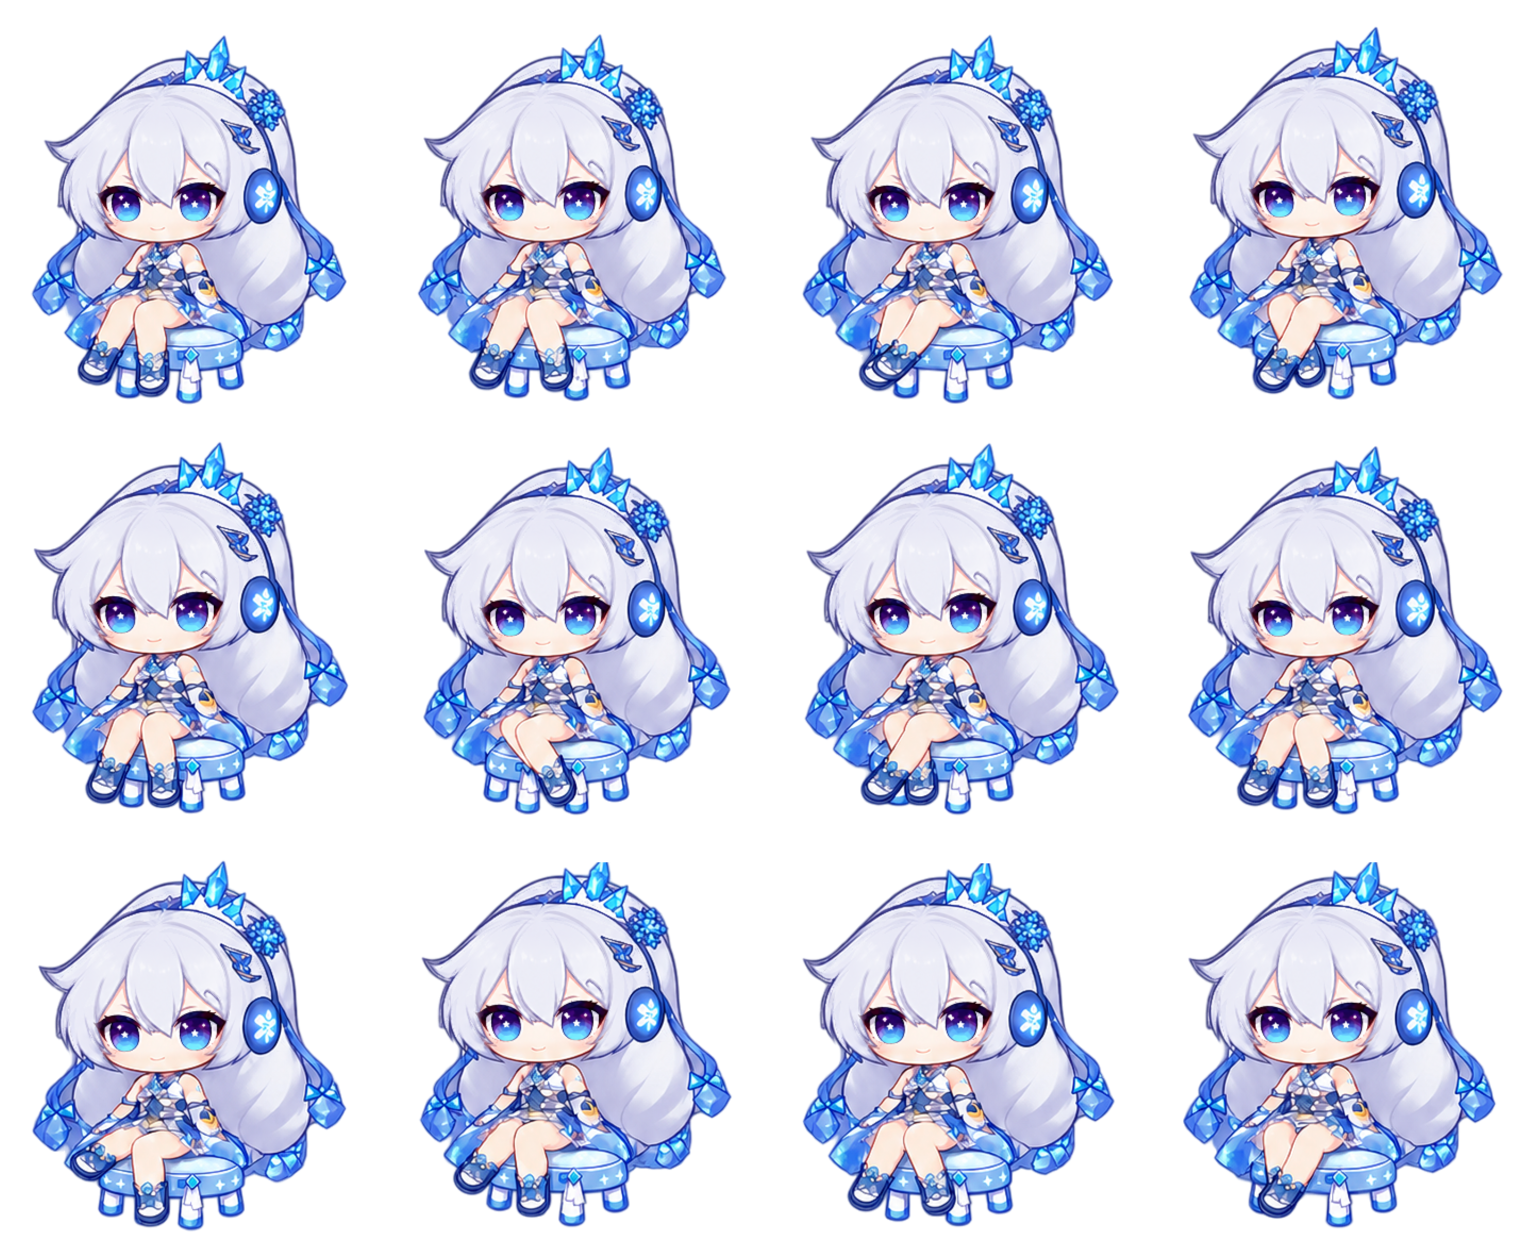
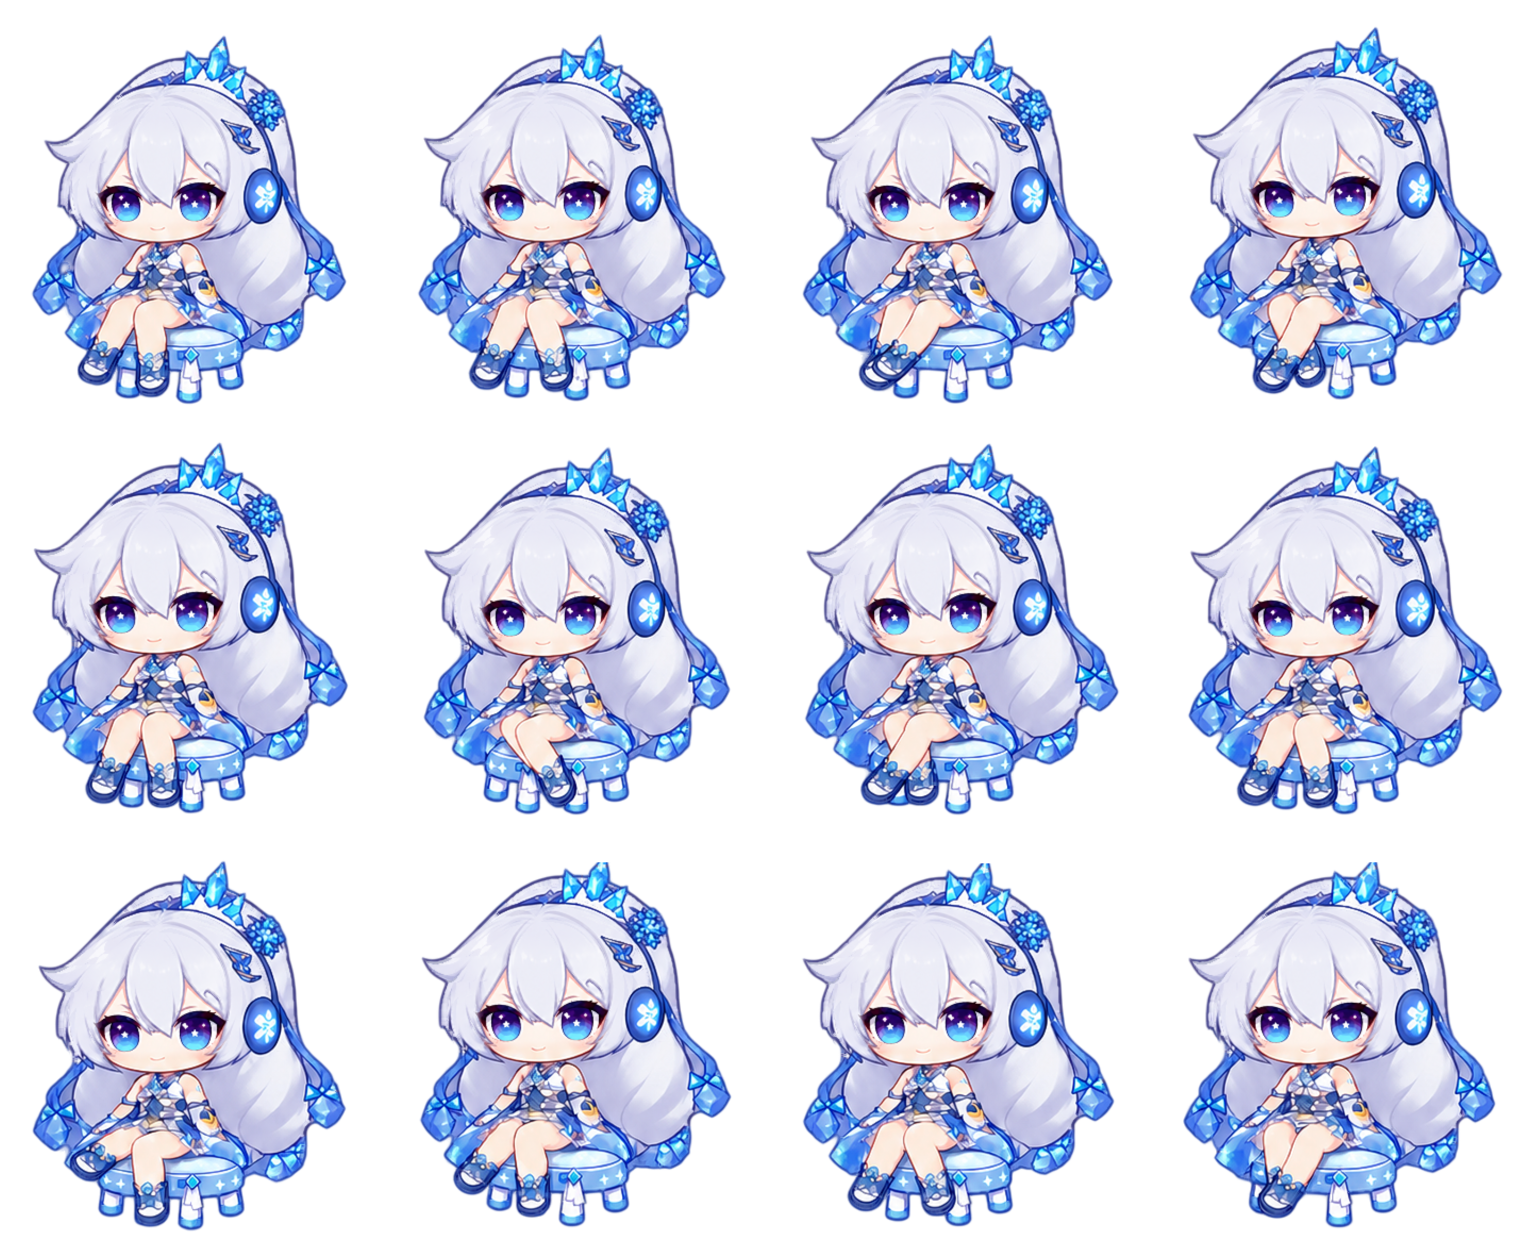
Refine winter fringe and Time Runner shoe details across seated loops

diff --git a/source/Maintenance.cs b/source/Maintenance.cs
@@ -4,7 +4,7 @@ namespace KianaPet {
  public sealed class PackageManifest {public int schema;public string product,version;public PackageEntry[] files;}
  public sealed class PreparedUpdate {public string Folder,Version,Notes;public PackageManifest Manifest;}
  public static class Maintenance {
-  public const string Version="0.9.12";
+  public const string Version="0.9.13";
   public static bool RuntimeFile(string path){return Regex.IsMatch(path,@"^(assets/|licenses/|docs/demo/|docs/(?:music-animations|toolbar-styles|optional-connections)\.md$|docs/music-generation-\d+\.\d+\.\d+\.json$|KianaHookReceiver\.exe(?:\.config)?$|KianaDesktopPet\.exe(?:\.config)?$|tools/(?:Send-TaskNotice|Invoke-TaskWithNotice)\.ps1$|docs/companion-features\.md$|README\.md$|CHANGELOG\.md$|ASSET_NOTICE\.md$|LICENSE$|update-worker\.ps1$)");}
   public static string SafePath(string root,string relative){if(string.IsNullOrWhiteSpace(relative)||relative.Contains(":")||relative.Contains("\\")||relative.StartsWith("/")||relative.Split('/').Any(p=>p==".."||p=="."||p.Length==0)||relative.Split('/').Any(p=>p.EndsWith(".")||p.EndsWith(" ")))throw new Exception("安装包包含无效路径。");string prefix=Path.GetFullPath(root).TrimEnd(Path.DirectorySeparatorChar)+Path.DirectorySeparatorChar;string target=Path.GetFullPath(Path.Combine(root,relative));if(!target.StartsWith(prefix,StringComparison.OrdinalIgnoreCase))throw new Exception("文件超出安装范围。");return target;}
   public static string Hash(Stream stream){using(var sha=SHA256.Create())return BitConverter.ToString(sha.ComputeHash(stream)).Replace("-","").ToLowerInvariant();}

diff --git a/README.md b/README.md
@@ -2,6 +2,10 @@
 
 ## 效果演示
 
+### 坐着听歌的发梢与鞋子（0.9.13）
+
+冬祈新愿的银发、晶饰与裙边已校正墨线宽度。时砾逐光的鞋面花纹与薄鞋底按每一帧的脚尖方向校正。原版坐姿、头部轻晃和侧向点头均已更新。[查看同一帧的局部动态对照](docs/demo/seated-edges-0.9.13.png)
+
 ### 三套 Q 版的音乐动作画风（0.9.12）
 
 坐着听歌、坐下、起身、轻微应援和活力应援已按各自衣装的前期动作校正。可以同时播放整理头发、伸懒腰或招手，与修正前后的音乐动作对照，也可以暂停逐帧切换深浅底色。[动态对照](docs/demo/music-style-0.9.12/index.html) · [画风核对](docs/demo/music-style-0.9.12/画风对照.md)
@@ -58,7 +62,7 @@
 git clone https://github.com/FeiyangHong/Kiana-Desktop-Pet.git
 cd Kiana-Desktop-Pet
 .\build-release.ps1
-.\dist\Kiana-Desktop-Pet-0.9.12-Windows\install.ps1 -InstallRoot 'E:\Kiana-Desktop-Pet\runtime\KianaDesktopPet'
+.\dist\Kiana-Desktop-Pet-0.9.13-Windows\install.ps1 -InstallRoot 'E:\Kiana-Desktop-Pet\runtime\KianaDesktopPet'
 ```
 
 `-InstallRoot` 可改为本机希望保存程序、设置与日志的目录；ChatGPT 平滑联动组件会装在其同级的 `KianaSmoothPet`。首次启动桌宠请使用安装器生成的“琪亚娜桌宠”快捷方式。另一台电脑拉取更新后重新构建、安装即可；本机设置会保留并在更新前备份。

diff --git a/CHANGELOG.md b/CHANGELOG.md
@@ -1,3 +1,9 @@
+# 0.9.13 · 冬祈新愿与时砾逐光的坐姿细节
+
+- 按早期画稿收窄冬祈新愿发梢、晶饰和裙边的灰色过渡，逐帧对齐侧刘海翘起处的内侧阴影与外墨线。
+- 按脚踝、鞋尖和遮挡关系校正时砾逐光的鞋面花瓣、中央小珠与鞋底，也调整了马尾和裙边的紫色墨线。
+- 覆盖两套衣装的三种坐姿共 72 帧，提供头部轻晃在默认倍速下的局部动态对照。
+
 # 0.9.12 · 三套 Q 版音乐动作的轮廓与应援头型
 
 - 校正原版坐姿、头部轻晃、侧向点头和坐下／起身的发缘墨色、透明边缘和发束高光。
